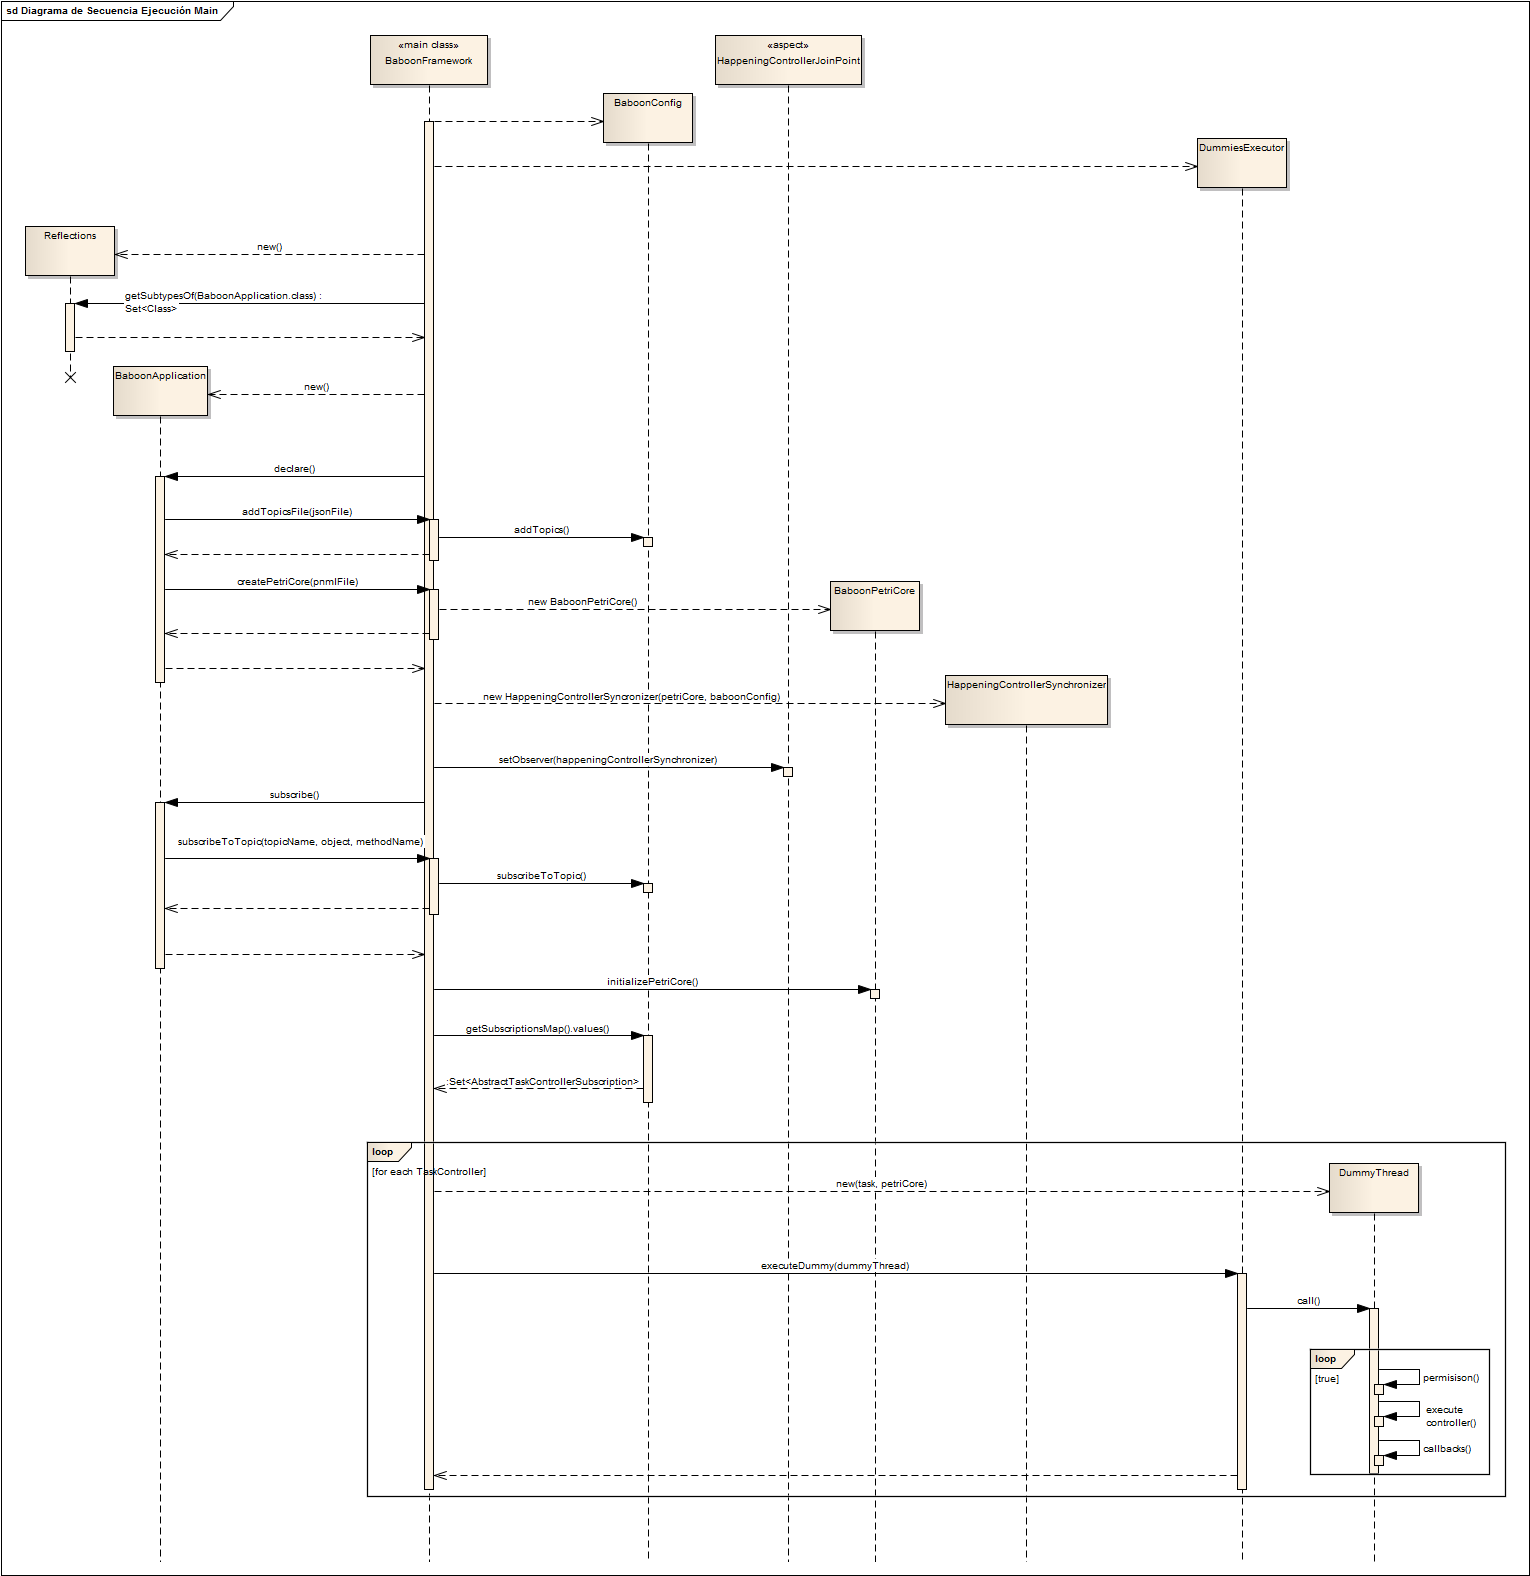
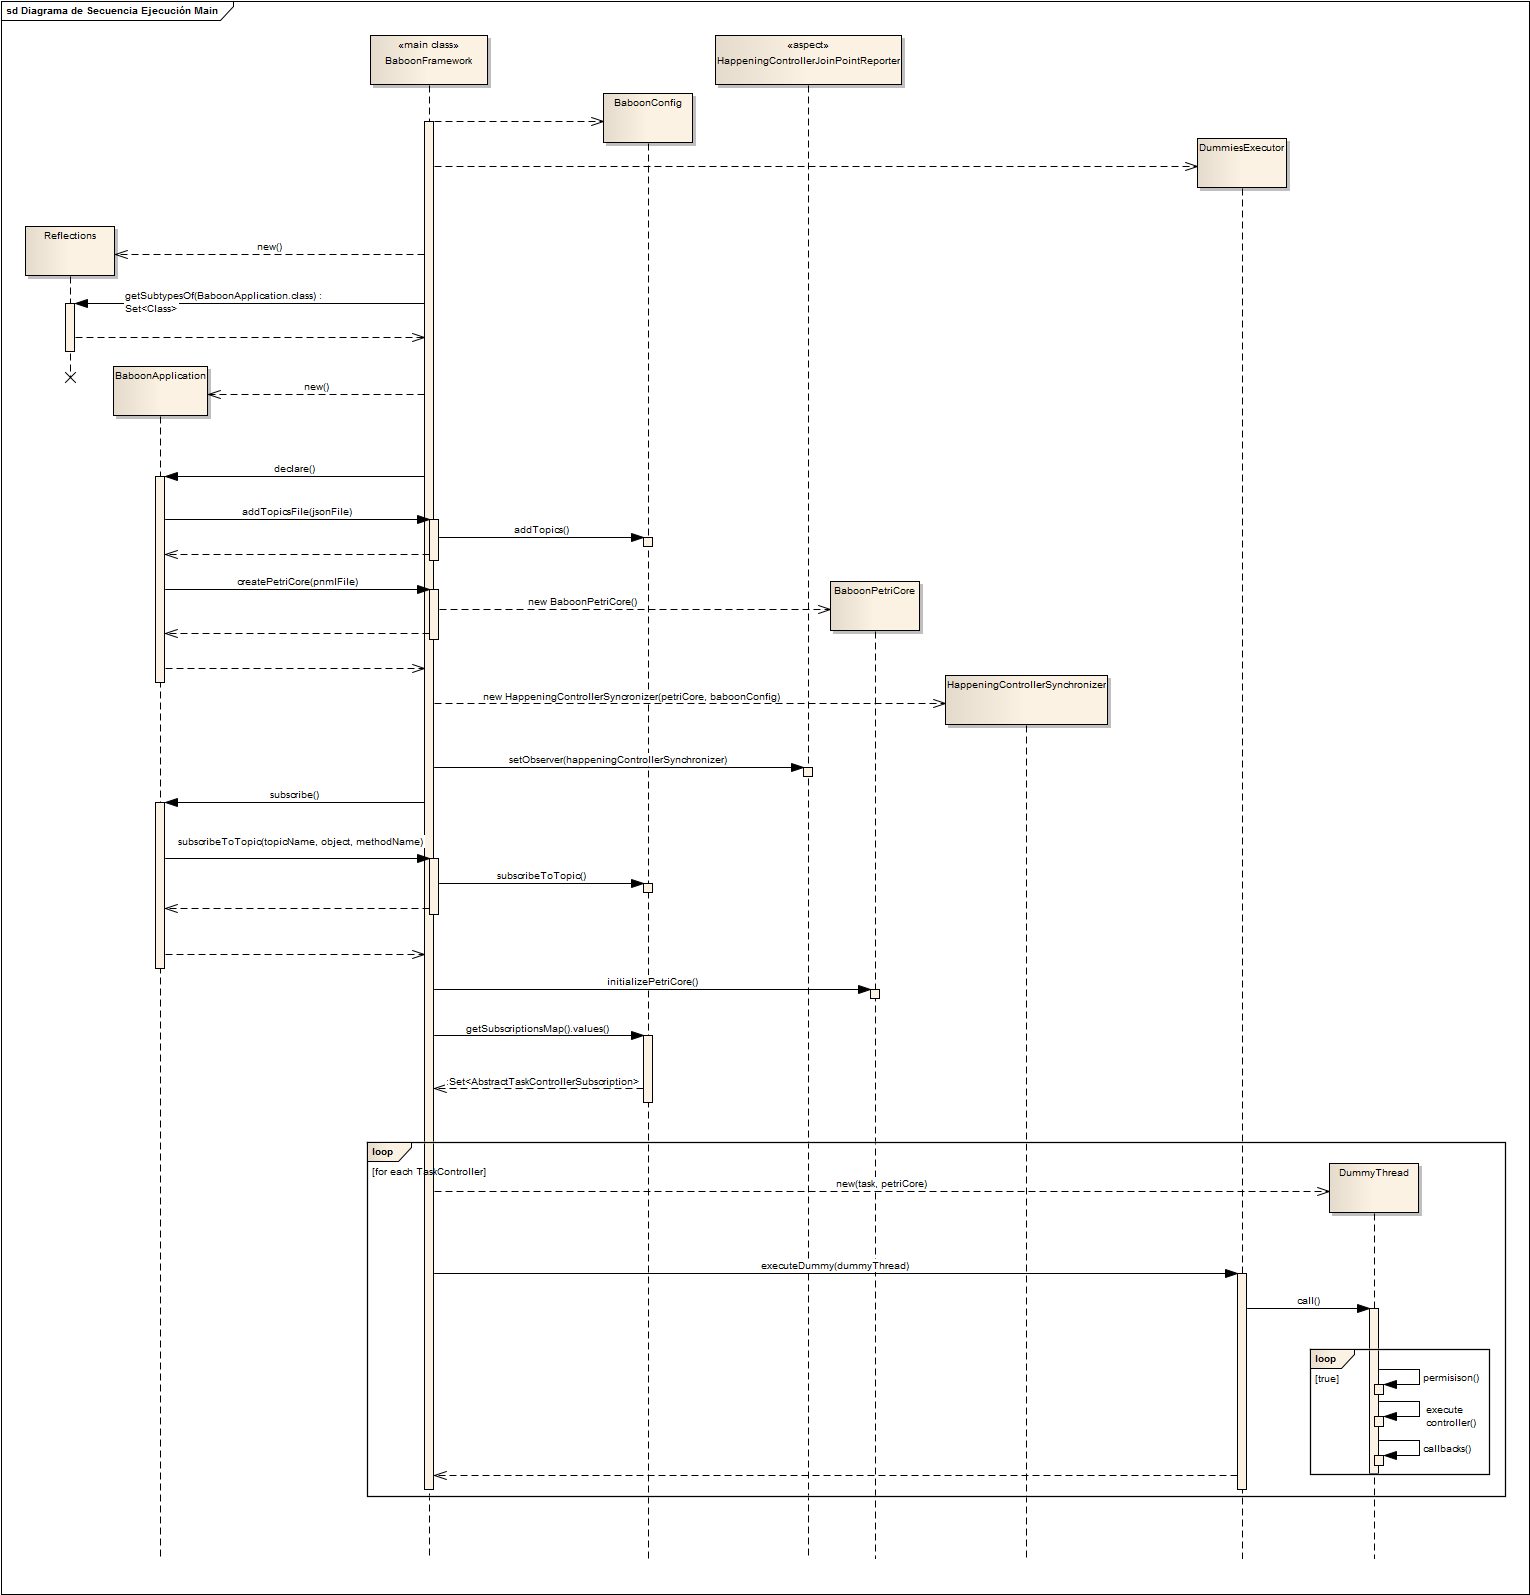
Modifying HappeningControllerJoinPoint name to HappeningControllerJoinPointReporter

diff --git a/InformeBaboon/sections/baboon_framework/implementacion/DetallesImplementacion.tex b/InformeBaboon/sections/baboon_framework/implementacion/DetallesImplementacion.tex
@@ -86,7 +86,7 @@ módulos que componen el framework implementado:
   \item \textbf{DummiesExecutor: } Pool de hilos encargado de ejecutar los
   objetos DummyThread.
   
-  \item \textbf{HappeningControllerJoinpoints: } Aspect donde se
+  \item \textbf{HappeningControllerJoinpointReporter: } Aspect donde se
   definen los puntos de unión del sistema y los advices que se aplican en
   dichos puntos.
   Es observable por aquellos objetos que implementen la interfaz
